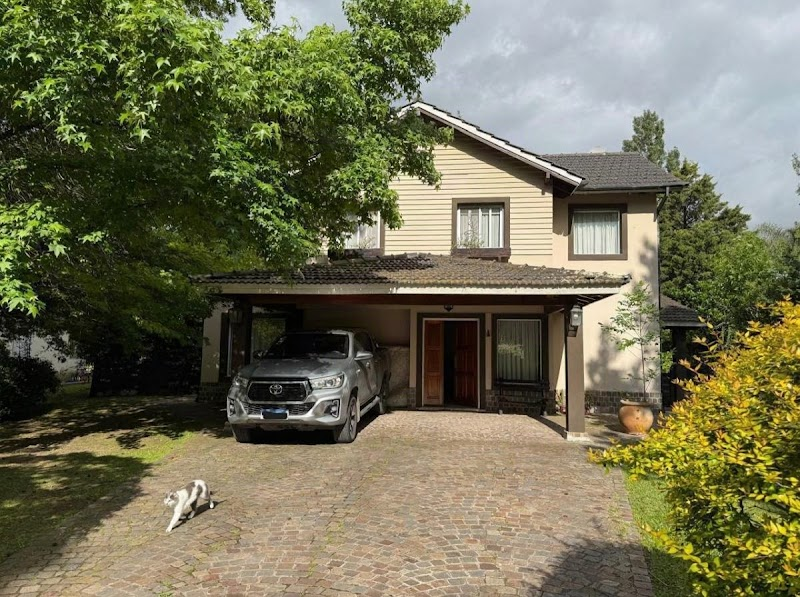
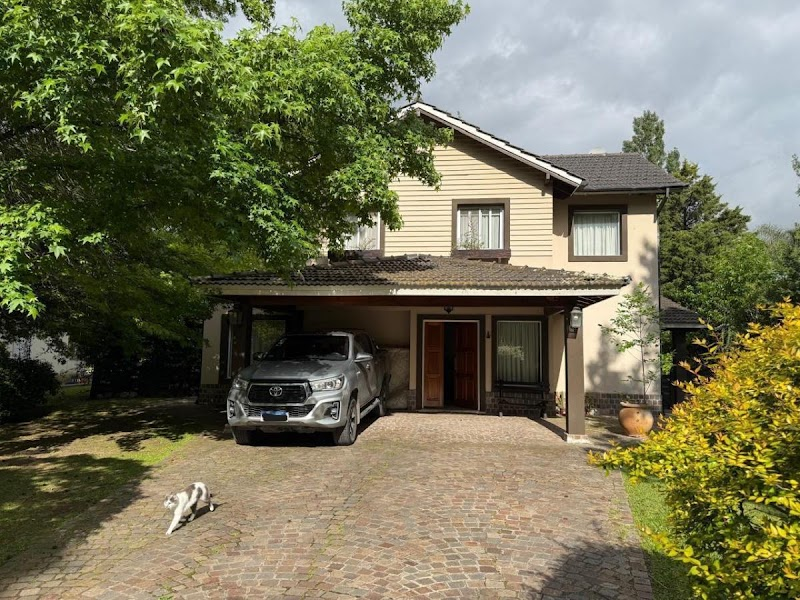
Ficha c50d3d: Casa en venta en Saint Thomas Norte, Canning

diff --git a/c50d3d/index.html b/c50d3d/index.html
@@ -93,7 +93,7 @@
   </div>
 
 <script>
-const D = {"ficha":{"slug":"casa-venta-saint-thomas-norte-c50d3d","titulo":"Casa en venta en Saint Thomas Norte, Canning","tipo":"Casa","operacion":"Venta","precio":{"moneda":"USD","monto":320000},"expensas":{"moneda":"ARS","monto":850000},"ubicacion":{"barrio":"Saint Thomas Norte","zona":"Canning, Esteban Echeverría","lat":-34.887,"lng":-58.504},"descripcion":"CHALET ESTILO CLASICO EN VENTA EN SAINT THOMAS NORTE\nDesarrollado en un terreno de 800m2. Con una superficie cubierta de 211m2 aproximadamente.\n\nCuenta con:\nPb:\nLiving comedor\nCocina c/ lavadero y despensero\nToilette de recepción\nDependencia de servicio (Apto dormitorio)\nGaleria c/ parrilla\nPiscina 9x4\nAmplio parque\nVista al golf\nPa:\nDormitorio principal en suite c/ vestidor\nDos dormitorios c/ placard\nBaño completo\n\nAPTO CREDITO","detalles":[["Sup. Total","800 m²"],["Sup. Cubierta","211 m²"],["Sup. del Terreno","800 m²"],["Tipo","Casa"],["Ambientes","5"],["Dormitorios","3"],["Baños","2"],["Toilettes","1"],["Plantas","2"],["Antigüedad","26 años"]],"servicios":[],"comodidades":["Parrilla","Piscina","Parque","Vista al golf","Vestidor"],"fotos":[{"id":"1x8rgmjbZQ3CNIFIjTdRt4wVkNWwX_FCJ"},{"id":"1InPj5j1QLKbxyozG6su3tq4HzgAeCc33"},{"id":"1m0bzjiH9M7jY2d21PpTyiiGPk0g93GDe"},{"id":"1GipQkTfDNnT3Ui7gNz_Q0tLJY5UIG8Ll"},{"id":"1RSsQV7AHIYVzcw4Q58zDr-XGszVHYQmk"},{"id":"1ZnvYPxmx_IN4KZ5tpI6aq4yQ9mp4eVsH"},{"id":"1d2ROX1cLzibTDFBPNBYd40BUQ24Ba-_2"},{"id":"1aArsZcVtuFTz55lxjYesAK5tioJN827k"},{"id":"1uoGKhw1tyxwigemnE726br7NqOPFUmaS"},{"id":"1HWUuVXSLaAQfH5_APPwhjD5TaWphNjgF"}],"planos":[],"actualizado":"2026-10-28T20:24:16.861Z"},"avisoLegal":"Toda la información suministrada en forma de imágenes y/o escrita carece de valor contractual y deberá ser corroborada por el interesado."};
+const D = {"ficha":{"slug":"casa-venta-saint-thomas-norte-c50d3d","titulo":"Casa en venta en Saint Thomas Norte, Canning","tipo":"Casa","operacion":"Venta","precio":{"moneda":"USD","monto":320000},"expensas":{"moneda":"ARS","monto":850000},"ubicacion":{"barrio":"Saint Thomas Norte","zona":"Canning, Esteban Echeverría","lat":-34.887,"lng":-58.504},"descripcion":"CHALET ESTILO CLASICO EN VENTA EN SAINT THOMAS NORTE\nDesarrollado en un terreno de 800m2. Con una superficie cubierta de 211m2 aproximadamente.\n\nCuenta con:\nPb:\nLiving comedor\nCocina c/ lavadero y despensero\nToilette de recepción\nDependencia de servicio (Apto dormitorio)\nGaleria c/ parrilla\nPiscina 9x4\nAmplio parque\nVista al golf\nPa:\nDormitorio principal en suite c/ vestidor\nDos dormitorios c/ placard\nBaño completo\n\nAPTO CREDITO","detalles":[["Sup. Total","800 m²"],["Sup. Cubierta","211 m²"],["Sup. del Terreno","800 m²"],["Tipo","Casa"],["Ambientes","5"],["Dormitorios","3"],["Baños","2"],["Toilettes","1"],["Plantas","2"],["Antigüedad","26 años"]],"servicios":[],"comodidades":["Parrilla","Piscina","Parque","Vista al golf","Vestidor"],"fotos":[{"id":"1ImVuz-UHoYY33BZND8pui0W2d1Sh-U1a"},{"id":"1X5BeNbY_B7eFihqFzf7lQ2FUIT4NXjHE"},{"id":"1RB1Qe4q60Z3oSdzSpAa_iS-oU0U0E-fX"},{"id":"1C6m9m-jgoPt9fqSSkp32xEWp9oINDk3C"},{"id":"1p18JvI0Xt4yf6u-xz9IguAP9q4vkgABS"},{"id":"1qhGeQHetPtxsji5V2H4sBszW51GOdm_o"},{"id":"1xK7C6JhIuMGLIdDhV9e-8ZrO8q2y1Rjj"},{"id":"18Hi3k3Vb2CWVsKvmhT3NwU9i2ucz0sRe"},{"id":"1Nj9736wo0buRxmi9n9E9BdzcbepwgkLP"}],"planos":[],"actualizado":"2026-10-28T21:58:23.903Z"},"avisoLegal":"Toda la información suministrada en forma de imágenes y/o escrita carece de valor contractual y deberá ser corroborada por el interesado."};
 const F = D.ficha;
 const esc = s => String(s == null ? '' : s).replace(/[&<>"']/g, c => ({ '&': '&amp;', '<': '&lt;', '>': '&gt;', '"': '&quot;', "'": '&#39;' }[c]));
 const miles = n => String(Math.round(n)).replace(/\B(?=(\d{3})+(?!\d))/g, '.');
